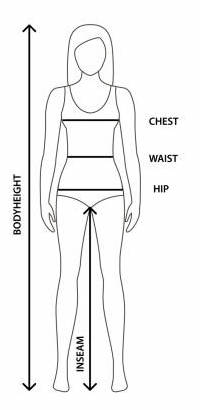
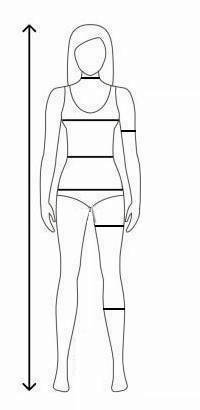
Add body measurments + fix images

diff --git a/routes/index.js b/routes/index.js
@@ -69,7 +69,7 @@ router.post('/', function(req, res, next) {
 
 
   // let sectionRate = req.body.healthRate;
-  let sectionRate = 8;
+  let sectionRate = 9;
   let radius = sectionRadius * sectionRate;
   let xVal2 = x0 + (angledSectionRadius * sectionRate);
   let yVal1 = y0 - radius;
@@ -80,6 +80,7 @@ router.post('/', function(req, res, next) {
     .stroke();
 
   // sectionRate = req.body.mentalRate;
+  sectionRate = 6;
   let xVal1 = x0 + (sectionRadius * sectionRate);
   radius = sectionRadius * sectionRate;
   xVal2 = x0 + (angledSectionRadius * sectionRate);
@@ -90,6 +91,7 @@ router.post('/', function(req, res, next) {
     .stroke();
 
   // sectionRate = req.body.relationsRate;
+  sectionRate = 9;
   radius = sectionRadius * sectionRate;
   xVal1 = x0 + (sectionRadius * sectionRate);
   xVal2 = x0 + (angledSectionRadius * sectionRate);
@@ -100,6 +102,7 @@ router.post('/', function(req, res, next) {
     .stroke();
 
   // sectionRate = req.body.careerRate;
+  sectionRate = 7;
   radius = sectionRadius * sectionRate;
   yVal1 = y0 + radius;
   xVal2 = x0 + (angledSectionRadius * sectionRate);
@@ -110,6 +113,7 @@ router.post('/', function(req, res, next) {
     .stroke();
 
   // sectionRate = req.body.fitnessRate;
+  sectionRate = 8;
   radius = sectionRadius * sectionRate;
   yVal1 = y0 - radius;
   xVal2 = x0 - (angledSectionRadius * sectionRate);
@@ -120,6 +124,7 @@ router.post('/', function(req, res, next) {
     .stroke();2
 
 // sectionRate = req.body.financeRate;
+  sectionRate = 4;
   radius = sectionRadius * sectionRate;
   xVal1 = x0 - (sectionRadius * sectionRate);
   xVal2 = x0 - (angledSectionRadius * sectionRate);
@@ -130,6 +135,7 @@ router.post('/', function(req, res, next) {
     .stroke();
 
 // sectionRate = req.body.hobbiesRate;
+  sectionRate = 9;
   radius = sectionRadius * sectionRate;
   xVal1 = x0 - (sectionRadius * sectionRate);
   xVal2 = x0 - (angledSectionRadius * sectionRate);
@@ -140,6 +146,7 @@ router.post('/', function(req, res, next) {
     .stroke();
 
 // sectionRate = req.body.funRate;
+  sectionRate = 10;
   radius = sectionRadius * sectionRate;
   yVal1 = y0 + radius;
   xVal2 = x0 - (angledSectionRadius * sectionRate);
@@ -165,10 +172,30 @@ router.post('/', function(req, res, next) {
   // AESTHETIC PART
   if (req.body.genderRadio === 'Female') {
       doc.image("public/images/female.jpg", 85, currentY, {height: 215,  align: 'center', valign: 'center'});
+        //body measurments
+      doc.fontSize(7).fillOpacity(1);
+      doc.fillColor("gray").text("178 cm", 70, currentY+90);
+      doc.fillColor("gray").text("35 cm", 147, currentY+38);
+      doc.fillColor("gray").text("90 cm", 160, currentY+58);
+      doc.fillColor("gray").text("32 cm", 160, currentY+67);
+      doc.fillColor("gray").text("62 cm", 160, currentY+78);
+      doc.fillColor("gray").text("93 cm", 160, currentY+96);
+      doc.fillColor("gray").text("55 cm", 158, currentY+116);
+      doc.fillColor("gray").text("37 cm", 154, currentY+159);
   } else {  
       doc.image("public/images/male.jpg", 85, currentY, {height: 215,  align: 'center', valign: 'center'});
-    // doc.fontSize(10).fillColor('black').text("32", 120, currentY+50);
+        //body measurments
+      doc.fontSize(7).fillOpacity(1);
+      doc.fillColor("gray").text("178 cm", 70, currentY+90);
+      doc.fillColor("gray").text("35 cm", 147, currentY+28);
+      doc.fillColor("gray").text("90 cm", 170, currentY+57);
+      doc.fillColor("gray").text("32 cm", 172, currentY+64);
+      doc.fillColor("gray").text("62 cm", 173, currentY+83);
+      doc.fillColor("gray").text("93 cm", 173, currentY+101);
+      doc.fillColor("gray").text("55 cm", 158, currentY+125);
+      doc.fillColor("gray").text("37 cm", 160, currentY+161);
   }
+  // 148 pelm, 600 gr miesa, 0,6 ciasta
 
   //body metrics
   currentY = 513;
@@ -607,7 +634,7 @@ router.post('/', function(req, res, next) {
   doc.fillOpacity(0.3).rect(gradX1, currentY+23, markersValueRectWidth, 5).fill(grad5);
   doc.fillOpacity(0.3).rect(gradX1, currentY+33, markersValueRectWidth, 5).fill(grad5);
   doc.fontSize(6).fillOpacity(1);
-  let friendsAmount = 7;
+  let friendsAmount = 9;
   // let resilienceScore = body.req.resilienceScore;
   doc.rect(gradX1 + valueStep*friendsAmount, currentY + 11, valueSignWidth, valueSightHeight).fill('gray');
   let friendsTime = 8;
@@ -866,9 +893,9 @@ router.post('/', function(req, res, next) {
    doc.fillColor("gray").text("List to be created", gradX1+2, currentY+63, {align: 'justify', width: 116});
    doc.fillColor("gray").text("Reading, kids, friends, sports", gradX1+2, currentY+83, {align: 'justify', width: 116});
    if (req.body.funScheduled === 'Yes') {
-      doc.fillOpacity(0.5).circle(gradX1 + 6, currentY + 105, 4).fillAndStroke("green", "green");
+      doc.fillOpacity(0.4).circle(gradX1 + 6, currentY + 105, 4).fill("green");
    } else {  
-      doc.fillOpacity(0.5).circle(gradX1 + 6, currentY + 105, 4).fillAndStroke("red", "red");
+      doc.fillOpacity(0.4).circle(gradX1 + 6, currentY + 105, 4).fill("red");
    } 
    doc.fillOpacity(1).fontSize(7).fillColor("gray")
    .text(lorem+lorem.substring(480), textColumnX+20, currentY+10, {align: 'justify', width: 290});
